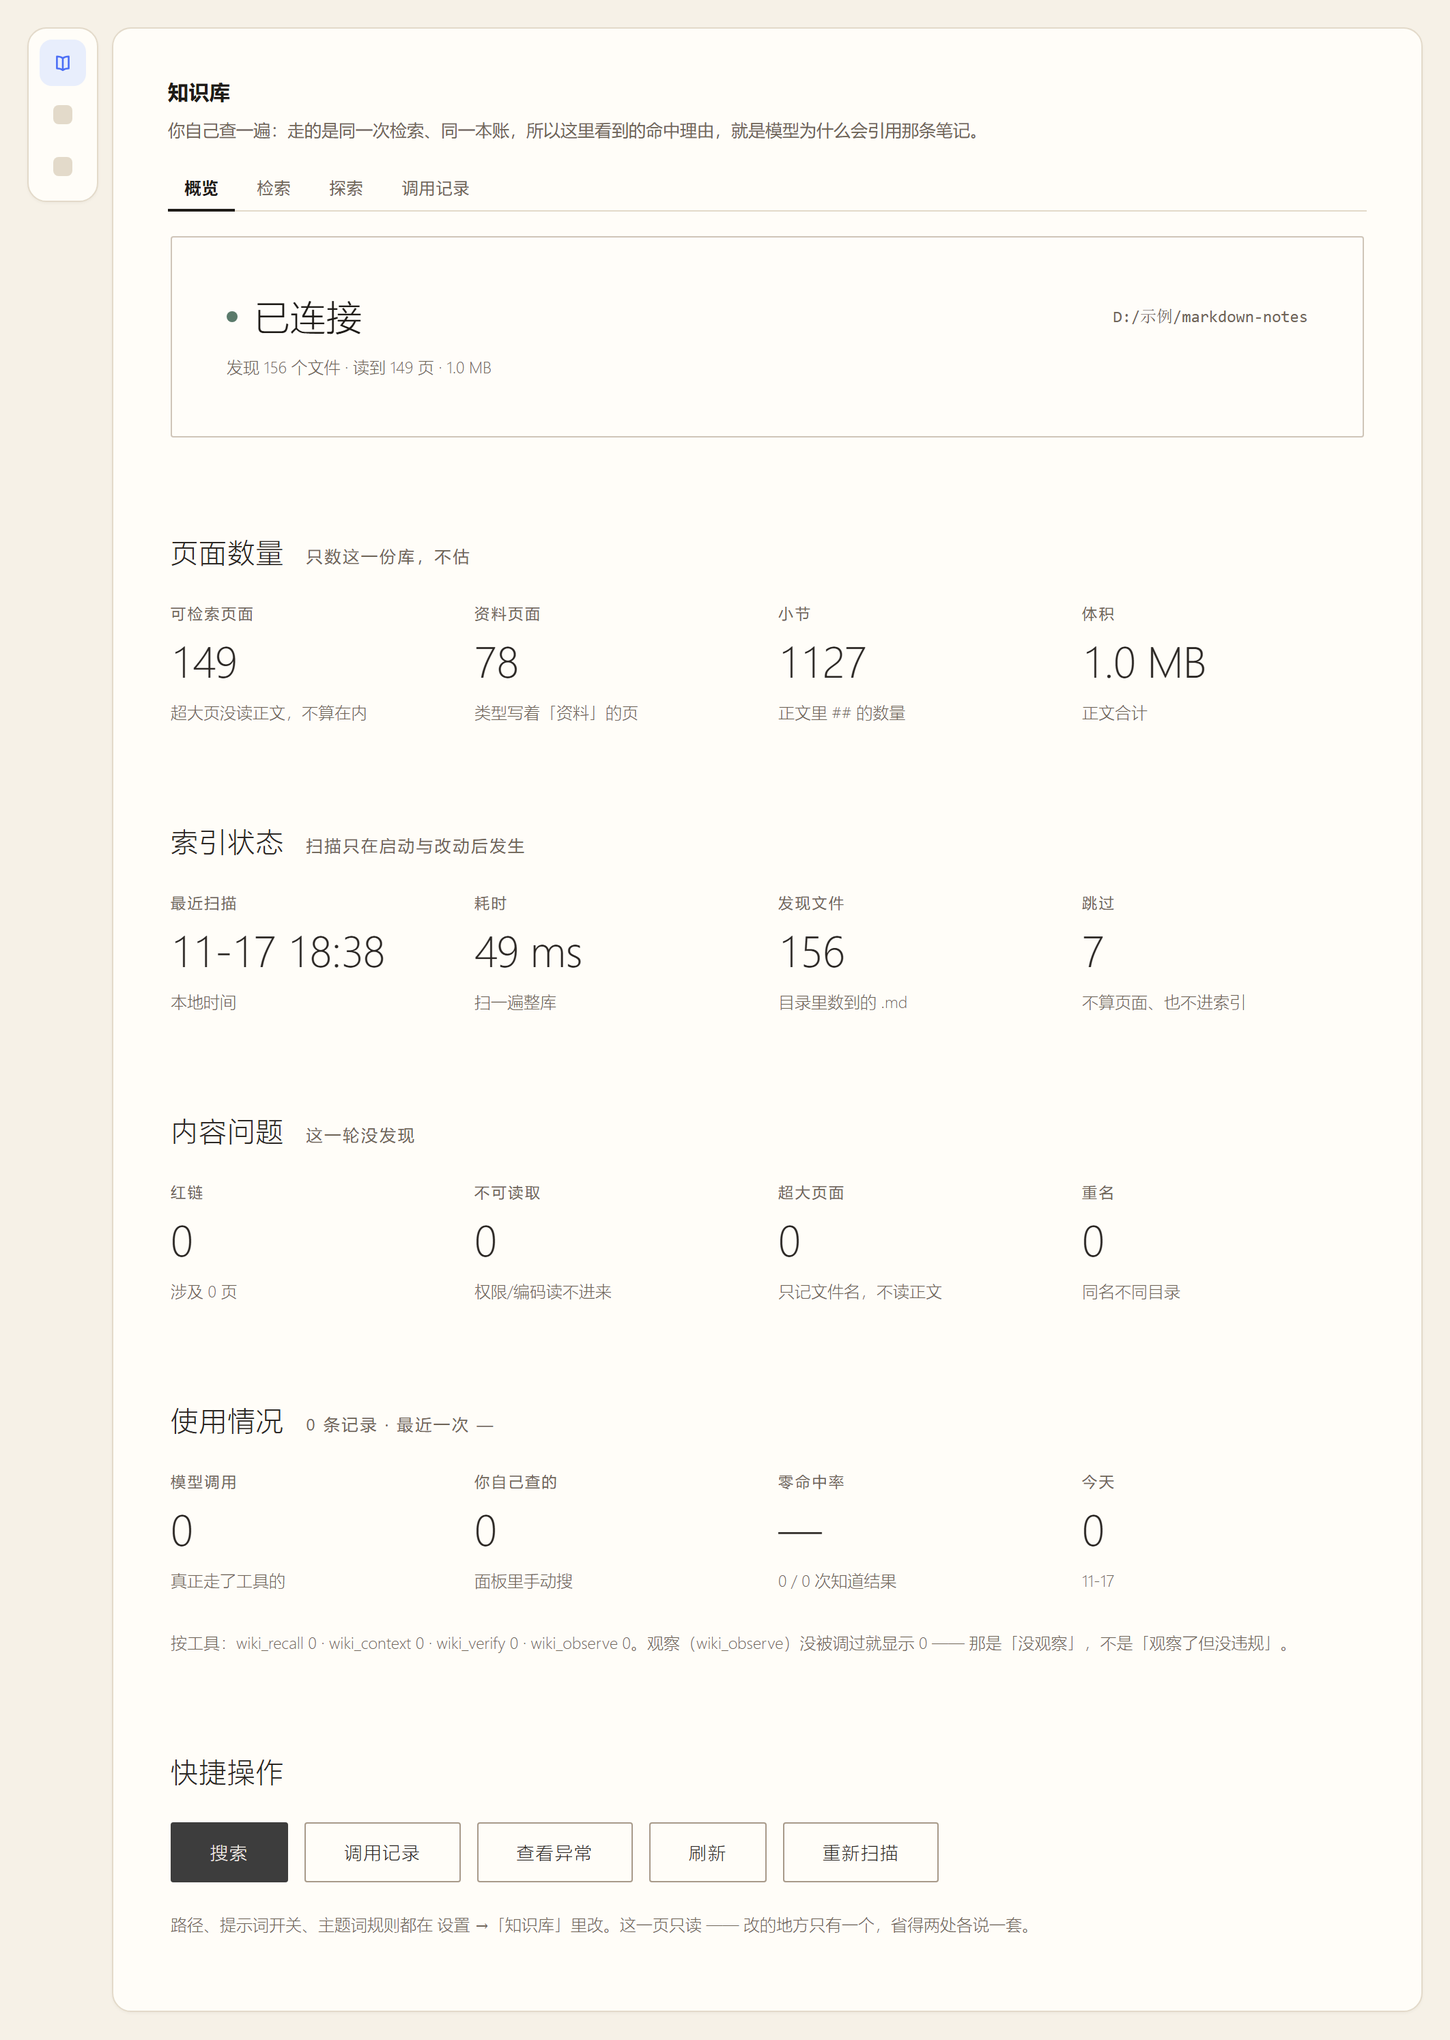
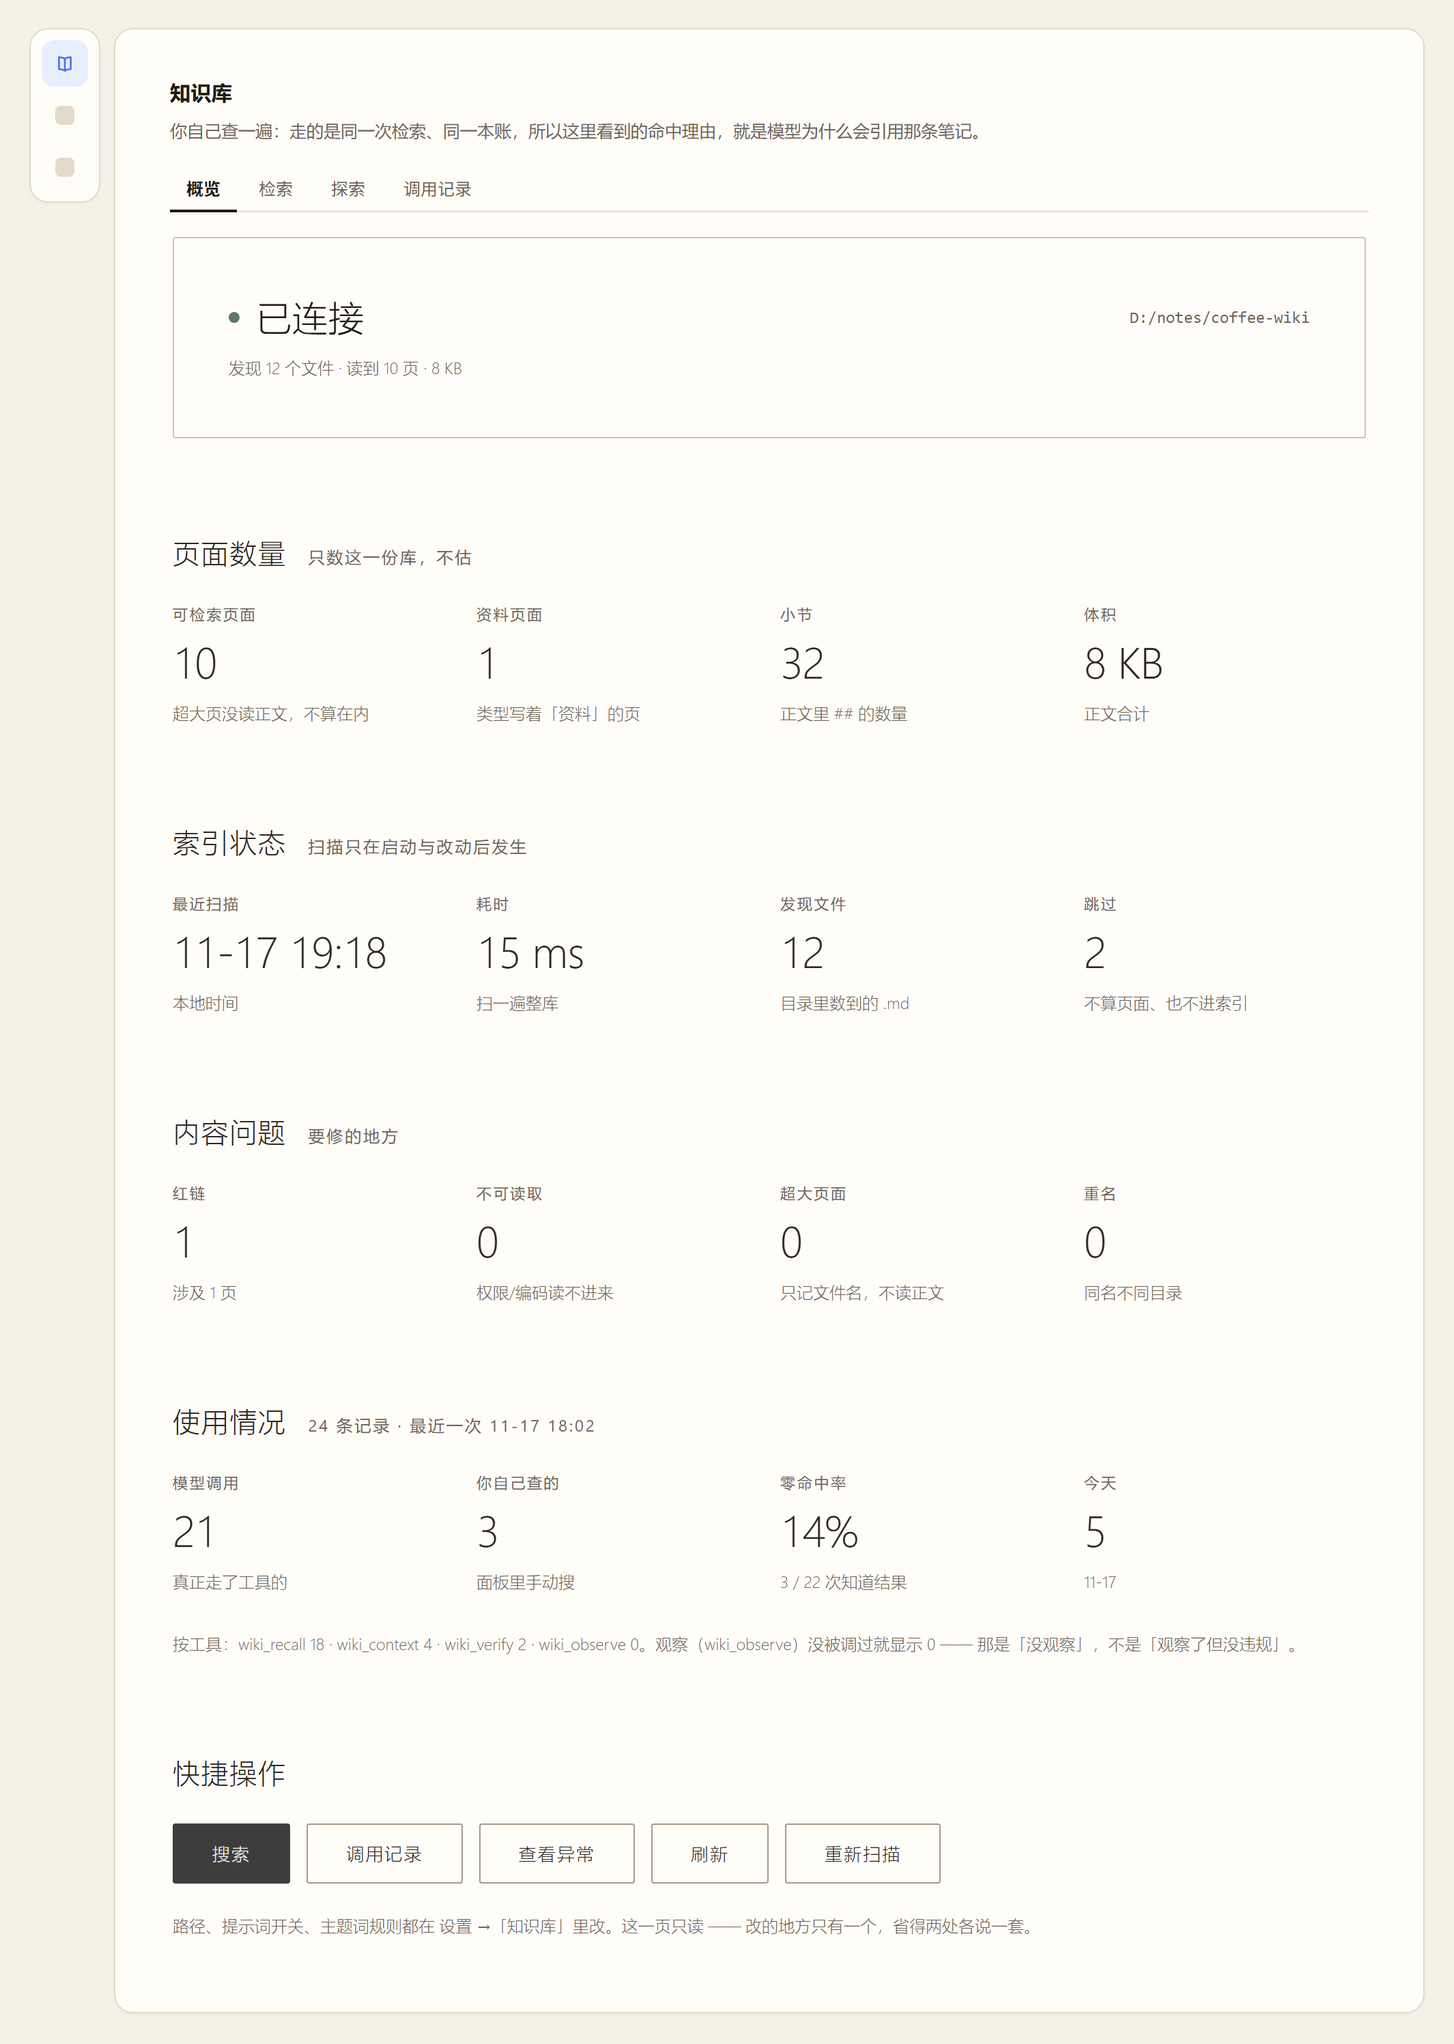
refactor: search 的 degraded 改名 orFallback / status or_fallback，与 context 的引擎降级解耦；文档预览图改用示例库渲染（1.11.0）

diff --git a/lib/engine.js b/lib/engine.js
@@ -229,7 +229,7 @@ function typeTier(page) {
  *
  * 多词查询里总有几页像「某课程·资料摘要」这种大而全的资料页，每个词都沾一点、分数最高，
  * 但不是答案。把只命中一部分词的页压到全命中页后面，等于保留 search.py 的 AND 语义；
- * 全部页都只命中一部分时（库里的确没写这个词），次序退回纯分数，并标 degraded。
+ * 全部页都只命中一部分时（库里的确没写这个词），次序退回纯分数，并标 orFallback。
  */
 function compareHits(a, b) {
   if (a.allTerms !== b.allTerms) return a.allTerms ? -1 : 1
@@ -557,11 +557,11 @@ export function search(corpus, query, options = {}) {
   }
 
   // AND 优先；一条 AND 都没有时降级为 OR，并在结果里说明，别让模型以为「库里没有」。
-  // 注意：OR 也一条没有时不算「降级」——那是真的没命中，标 degraded 反而误导。
-  let degraded = false
+  // 注意：OR 也一条没有时不算「降级」——那是真的没命中，标 orFallback 反而误导。
+  let orFallback = false
   let list = scored.filter((item) => item.allTerms)
   if (list.length === 0) {
-    degraded = scored.length > 0
+    orFallback = scored.length > 0
     list = scored
   }
 
@@ -572,7 +572,7 @@ export function search(corpus, query, options = {}) {
     const covered = coveragePass(corpus, tokens, { typeFilter, tagFilter, statusFilter })
     if (covered.length > 0) {
       coverageFallback = true
-      degraded = true
+      orFallback = true
       list = covered
     }
   }
@@ -649,14 +649,14 @@ export function search(corpus, query, options = {}) {
     // 覆盖率兜底下调时不能报「这些词一页都没命中」——命中正是靠这些词的字面片段捞到的，
     // 两句话放在一起自相矛盾，note 里已经交代清楚。
     missedTerms: coverageFallback ? [] : tokens.filter((token) => (termPages.get(token) ?? 0) === 0),
-    matchMode: degraded ? 'or' : 'and',
+    matchMode: orFallback ? 'or' : 'and',
     // 覆盖率兜底是 or 的下一层（仍标 matchMode/or 以保持面板与既有断言的两值语义），
     // 但必须单独标出来：这时候「命中」只是字面沾边，精度比 OR 更低，模型叙述时要收着写。
     coverageFallback,
     trivialQuery,
     ...(explain ? { termPages: tokens.map((token) => ({ term: token, pages: termPages.get(token) ?? 0 })) } : {}),
     total: list.length,
-    degraded,
+    orFallback,
     // 调用级统计：分母各是各的，别合成一个数字
     considered,
     matched: coverageFallback ? list.length : scored.length,
@@ -674,7 +674,7 @@ export function search(corpus, query, options = {}) {
     note: filterNote
       || (coverageFallback
         ? `整句没有命中任何页（中文不分词，"${query}" 被当成一个词元），已降级为字面覆盖率匹配（≥${Math.round(COVERAGE_MIN * 100)}%）。结果只作线索：命中是字面沾边，不是这页回答了你。`
-        : degraded
+        : orFallback
           ? '没有同时命中全部检索词，已降级为 OR（命中任一）：命中面变宽、精度下降'
           : trivialQuery
             ? `查询只有一个字（"${tokens[0]}"），它在这 ${considered} 页里出现了 ${scored.length} 页——这个字到处都有，排序没有区分度。换个更具体的词再搜。`
@@ -1301,7 +1301,7 @@ export function help() {
         title: 'status 怎么读',
         lines: [
           'ok：正常，内容可信。',
-          'degraded：只有部分检索词命中，已降级成 OR —— 命中面变宽、精度下降，答案要点可能偏。',
+          'or_fallback：只有部分检索词命中，已降级成 OR —— 命中面变宽、精度下降，答案要点可能偏。结果里另有布尔字段 orFallback 与它同义；coverageFallback 为真表示连 OR 都没有、退回字面覆盖率。',
           'partial：看到的不全（有页读不出来 / 目录列不出 / 超大页没参与 / 有同名页）。warnings 说漏了什么。',
           'no_match：参与比对的页里没有命中。**不能反推全库没有**，换词组或 list 看命名习惯。',
           'unavailable：库一页都没扫到，通常是路径指错层 —— 该去查配置，不是换关键词。',
@@ -1465,8 +1465,8 @@ export function decideStatus(corpus, mode, args = {}, result = {}) {
     warnings.push(engineNote(result) || '这个别名被多页共用，这次给的不一定是你要的那篇')
     return { status: 'partial', warnings }
   }
-  if (mode === 'search' && result.degraded === true) {
-    // 降级与「超大页可能相关」可以同时成立：状态按约定取 degraded，但两条事实都要输出 ——
+  if (mode === 'search' && result.orFallback === true) {
+    // 降级与「超大页可能相关」可以同时成立：状态按约定取 or_fallback，但两条事实都要输出 ——
     // 别让一个状态值把覆盖缺口吞掉。
     if (oversizedHit) warnings.push(oversizedWarning)
     // 引擎自己知道这次是「命中任一词」还是「整句只沾字面」（覆盖率兜底），
@@ -1474,7 +1474,7 @@ export function decideStatus(corpus, mode, args = {}, result = {}) {
     // 固定文案只当兜底（老调用方不带 note 时）。
     warnings.push(engineNote(result)
       || '只命中部分检索词，已降级为 OR：命中面变宽、精度下降；想收窄就改用页面标题或更少的词重查一次')
-    return { status: 'degraded', warnings }
+    return { status: 'or_fallback', warnings }
   }
   if (oversizedHit) {
     // 目录/检索为空而库里恰好有超大页时，两件事都得说：先说「为什么是空的」（可能是过滤条件写错），

diff --git a/lib/index.js b/lib/index.js
@@ -1041,7 +1041,7 @@ export function apply(ctx, config = {}) {
             // 和工具那条路记同一组字段：面板里查的一遍也是「一次调用」，
             // 少了这五项，账本里就有一半的行说不出为什么命中得勉强。
             status: typeof result?.status === 'string' ? result.status : '',
-            fallback: result?.coverageFallback === true ? 'coverage' : result?.degraded === true ? 'or' : '',
+            fallback: result?.coverageFallback === true ? 'coverage' : result?.orFallback === true ? 'or' : '',
             considered: Number.isFinite(result?.considered) ? result.considered : null,
             warnings: Array.isArray(result?.warnings) ? result.warnings.length : null,
             topScore: Array.isArray(result?.hits) && result.hits.length > 0 && Number.isFinite(result.hits[0]?.score)
@@ -1707,7 +1707,7 @@ const registerGateway = () => {
             ? ''
             : value?.coverageFallback === true
               ? 'coverage'
-              : value?.degraded === true
+              : value?.orFallback === true
                 ? 'or'
                 : '',
           considered: searchable && Number.isFinite(value?.considered) ? value.considered : null,
@@ -2019,11 +2019,11 @@ function renderSearch(value) {
     : `扫描 ${scanned} 页，${value.total} 命中`
   out.push(`【检索】${tokens}　${numbers}`)
   // 「没沾到」是给模型看的换词依据：面板上能点出来，模型看不到就等于白算。
-  // 它和 degraded 说的不是一件事：degraded 是「一条全词命中都没有」，
+  // 它和 orFallback 说的不是一件事：orFallback 是「一条全词命中都没有」，
   // 这里是「这个具体的词在库里一页都没沾到」—— 后者才指着该换哪个词。
   const missed = Array.isArray(value.missedTerms) ? value.missedTerms : []
   if (missed.length > 0) out.push(`没沾到：${missed.join('、')}（这些词在库里一页都没命中，换同义词或干脆去掉）`)
-  // 降级说明已由 warnings 承载（degraded 时必有一条，用的就是同一段文字）；只有 status 仍是 ok
+  // 降级说明已由 warnings 承载（orFallback 时必有一条，用的就是同一段文字）；只有 status 仍是 ok
   // 或老调用方（结果里没有 status 字段）才需要这里的 note —— 否则同一句话模型会读两遍。
   // ok 也要放行：单字查询「这个字到处都有、排序没有区分度」是 ok 状态下唯一能说这句话的出口，
   // 而 ok 按契约不带 warnings 键（tests/status.mjs 守着「正常路径零额外 token」）。

diff --git a/lib/client.js b/lib/client.js
@@ -1056,10 +1056,10 @@ window.__ModuleLoader__.load({
           // 条数被 limit 截住时说清楚，否则「命中 7 页」下面只列 3 条会让人以为漏了。
           shown < result.total ? '（显示前 ' + shown + '）' : '',
         ),
-        result.degraded === true
+        result.orFallback === true
           ? h(
               'span',
-              { className: 'wn-count-degraded' },
+              { className: 'wn-count-orfallback' },
               // 兜底有两条路：OR（命中任一）与字面覆盖率（v1.6 起的第三条路）。
               // 说错会让人以为自己看到的是「任一词命中」的结果，实际是整句都没命中。
               result.coverageFallback === true
@@ -2206,7 +2206,7 @@ window.__ModuleLoader__.load({
       // 计数行：主信息在左，元信息推到行尾 —— 一眼看到「命中几页」，想核再看耗时。
       '.wn-count{display:flex;align-items:baseline;gap:10px;flex-wrap:wrap;font-size:12px;color:var(--wn-muted);font-variant-numeric:tabular-nums;}',
       '.wn-count-main{color:var(--wn-fg);font-weight:600;}',
-      '.wn-count-degraded{font-size:11.5px;color:var(--wn-warn);}',
+      '.wn-count-orfallback{font-size:11.5px;color:var(--wn-warn);}',
       '.wn-near{display:flex;flex-direction:column;gap:6px;padding:14px 16px;border:1px solid rgba(168,152,133,0.45);border-radius:2px;background:#fffdf9;}',
       '.wn-near-head{font-size:11px;font-weight:400;letter-spacing:0.12em;color:#6f6558;}',
       '.wn-near-row{display:flex;align-items:center;gap:10px;width:100%;font:inherit;text-align:left;padding:6px 0;border:0;border-bottom:1px solid rgba(168,152,133,0.22);background:transparent;color:#2b2724;cursor:pointer;transition:color 700ms ease-in-out;}',

diff --git a/README.md b/README.md
@@ -131,7 +131,7 @@ ts · source · tool · mode · query · hits · ms · ok
 status · fallback · considered · warnings · topScore
 ```
 
-前 8 个是「发生了什么」，后 5 个是「为什么是这样」：`status` 是这次结果的状态（`ok` / `partial` / `no_match` / `unconfigured` / `error`），`fallback` 说明靠哪层兜底（`coverage` 字面兜底 / `or` 放宽 OR / 空 = 正常），`considered` 是参与比对的页数，`warnings` 是警告条数，`topScore` 是最高分。
+前 8 个是「发生了什么」，后 5 个是「为什么是这样」：`status` 是这次结果的状态（`ok` / `partial` / `or_fallback` / `no_match` / `unconfigured` / `error`），`fallback` 说明靠哪层兜底（`coverage` 字面兜底 / `or` 放宽 OR / 空 = 正常），`considered` 是参与比对的页数，`warnings` 是警告条数，`topScore` 是最高分。
 
 **没有这 5 个字段的时候，「0 命中」是一句没法追责的话**：换词重搜、放开过滤、修库路径，三种下一步长得一模一样。现在「命中」格悬停会显示「参与 N 页 · 最高 X 分」，诊断列直接标出「字面兜底 / 放宽 OR」。
 
@@ -258,6 +258,10 @@ WIKI_ROOT="<仓库绝对路径>/examples/demo-wiki" node tools/verify-host.mjs -
 
 ![概览页签：左边一串数字全是宿主算好的，这一页只负责摆出来](docs/preview-overview.png)
 
+> 截图不是画的，是拿随包的 `examples/demo-wiki`（手冲咖啡那 10 页）跑 `node tools/preview.mjs --state <样例> --tab overview` 渲真组件后截的 —— 组件改了、图不会自己变，所以每次发版都重出一遍。
+>
+> 为什么不用「真实笔记库」的截图：那样连页名、标签、枢纽页都跟着出海，而这台机器上的库是私人的。
+
 概览按「先看库有没有毛病，再决定查什么」排，只摆这六块：
 
 | 块 | 内容 | 为什么在这一块 |
@@ -350,7 +354,7 @@ WIKI_ROOT="<仓库绝对路径>/examples/demo-wiki" node tools/verify-host.mjs -
 
 评分刻意朴素：标题全等 120 / 标题含 60 / 别名含 50 / 标签含 25 / 正文词频 ×3（封顶 36）/ index 摘要只在其它通道全 0 时补 8；同分再比类型层（综合 3 · 总览 3 / 概念·实体·对比 2 / 资料 1）→ 更新时间 → 码点序。四处经验细节：摘要分只补漏不抢位、同分用码点序（拼音序不可复现）、选节排除清单类与元讨论类小节、总览与综合同层（总览是全库唯一入口页，跨模块的词在它里面出现分量不同）。
 
-中文连写整句在 AND / OR 双双落空时会降级到**字面覆盖率兜底**（中文二字组 / 拉丁整词，覆盖率 ≥45% 才入选，`degraded: true` 并在结果里说明），这是缓解不是语义检索；查询先做 NFKC 归一化并剥掉两端疑问词。
+中文连写整句在 AND / OR 双双落空时会降级到**字面覆盖率兜底**（中文二字组 / 拉丁整词，覆盖率 ≥45% 才入选，`orFallback: true` 并在结果里说明），这是缓解不是语义检索；查询先做 NFKC 归一化并剥掉两端疑问词。
 
 ---
 

diff --git a/CHANGELOG.md b/CHANGELOG.md
@@ -2,6 +2,26 @@
 
 本文件的体例：只记「对使用者有影响的行为变化」，不记内部重构。版本号遵循 semver，`0.x` 阶段不承诺兼容。
 
+## 1.11.0
+
+### 改 · 一个词两种含义，现在只剩一种：`degraded` → `orFallback`
+`wiki_context` 的 `status.degraded` 说的是**引擎挂了**（先修通道再谈结论）；`wiki_recall` 的 `degraded` 说的是**放宽成 OR**（命中面变宽、精度下降）。同一个词，一个要报警、一个只是提醒，读的人和模型都会弄反。
+
+| 位置 | 旧 | 新 |
+| --- | --- | --- |
+| `wiki_recall` 结果字段 | `degraded: true` | `orFallback: true` |
+| `wiki_recall` 结果状态 | `status: "degraded"` | `status: "or_fallback"` |
+| `wiki_context` 的引擎状态 | `status.degraded` | **不变**（这里本来就该叫这个名字） |
+
+跟着改的消费者：调用账本的 `fallback` 推导、面板计数行的黄字提示、`help` 里的状态说明、README 与测试。`tests/status.mjs` 新加一条守卫：search 的结果里**不许再有** `degraded` 这个键 —— 改名这种东西，没人盯着就会在下一版悄悄长回来。
+
+这是输出契约的变化。你是被动读它的模型，动作不变（看到 `or_fallback` 就收窄检索词或换更短的词）；但如果你的库里有脚本在 parse `degraded`，得跟着改。
+
+### 改 · 文档里那张概览截图改用随包示例库渲染
+`docs/preview-overview.png` 现在是拿 `examples/demo-wiki`（手冲咖啡那 10 页）真跑 `node tools/preview.mjs --state <样例> --tab overview`、渲真组件后截的图。之前那张用的是本机私人笔记库的样例 —— 数字是真的，但「真实的库长什么样」本身就带着页名、标签、枢纽页这些不该出海的东西。
+
+图里的路径、使用情况计数都是编的，**数字结构是真的**（页数 / 小节 / 用时就来自那次真实渲染），所以图不会骗人：组件改了、重出一遍就同步。
+
 ## 1.10.3
 
 ### 新 · 第二种结构的示例库：一个目录 + 一堆 .md
